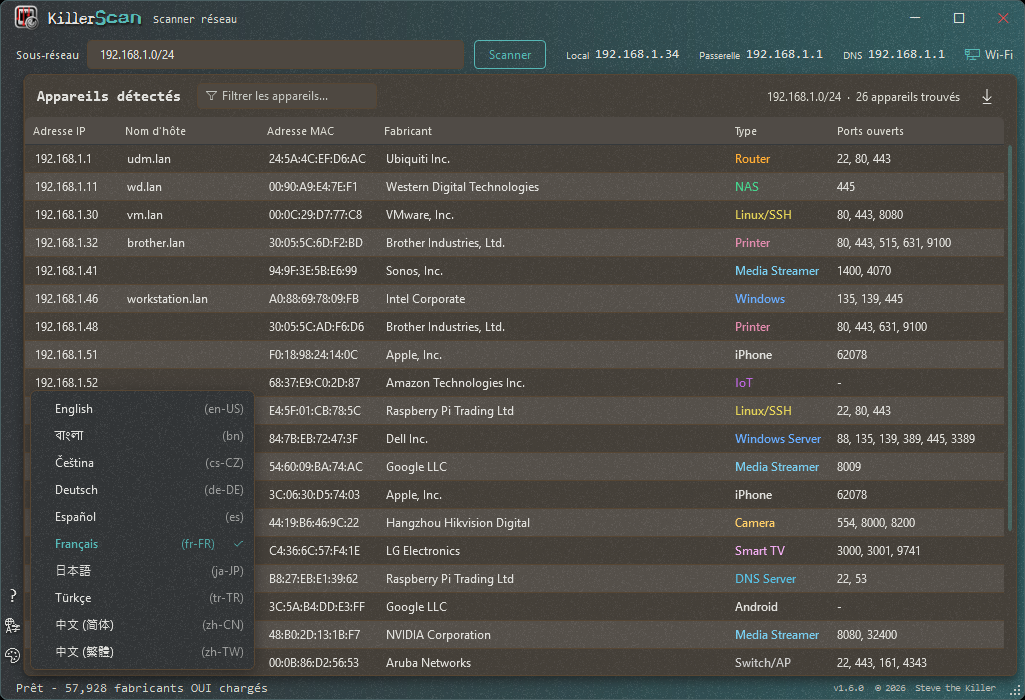
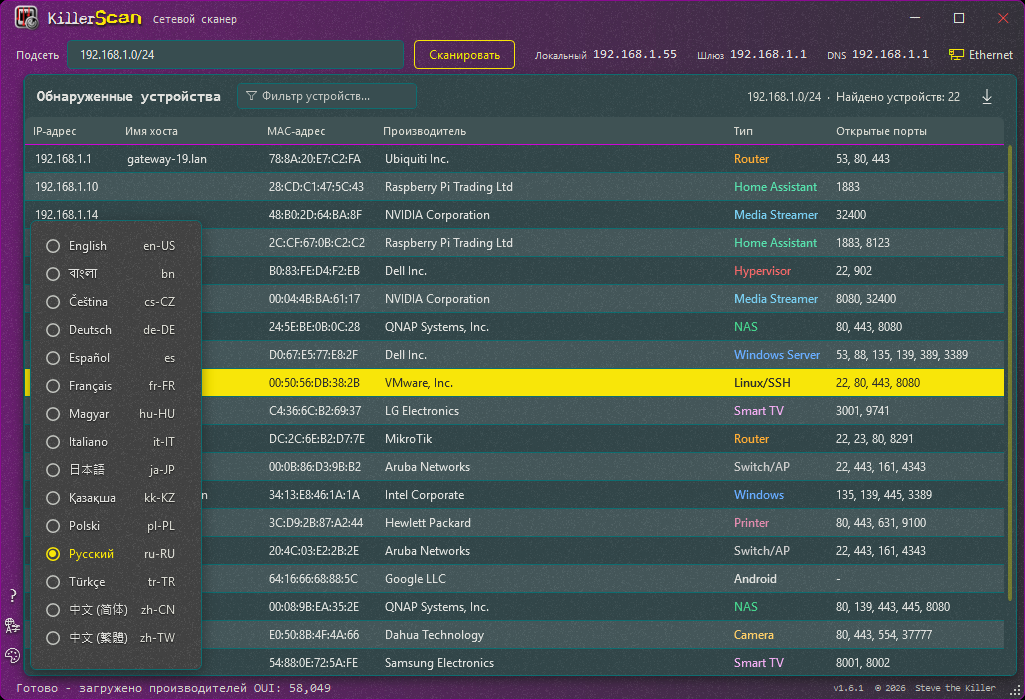
v1.6.1: replace the language-picker screenshot with a Russian one showing all fifteen languages

Changed region(s): [[0.0, 0.0, 1.0, 1.0]]

diff --git a/scan-landing/ks-i18n.js b/scan-landing/ks-i18n.js
@@ -70,7 +70,7 @@ var I18N = {
   "shot_3": "Карточка «О программе» KillerScan поверх результатов сканирования",
   "shot_4": "Выбор темы в теме Траур",
   "shot_5": "Сканирование устройств на традиционном китайском",
-  "shot_6": "Выбор языка на французском",
+  "shot_6": "Сканирование устройств и выбор языка на русском",
   "shot_7": "Выбор темы в теме Кровь",
   "shot_8": "Контекстное меню устройства в теме Гробница",
   "shot_9": "Сканирование устройств и выбор языка на чешском",
@@ -388,7 +388,7 @@ var I18N = {
   "shot_3": "Scheda Informazioni di KillerScan sui risultati della scansione",
   "shot_4": "Selettore dei temi nel tema Lutto",
   "shot_5": "Scansione dei dispositivi in cinese tradizionale",
-  "shot_6": "Selettore della lingua in francese",
+  "shot_6": "Scansione dei dispositivi e selettore della lingua in russo",
   "shot_7": "Selettore dei temi nel tema Sangue",
   "shot_8": "Menu contestuale del dispositivo nel tema Sepolcro",
   "shot_9": "Scansione dei dispositivi e selettore della lingua in ceco",
@@ -813,7 +813,7 @@ var I18N = {
   "shot_3": "A KillerScan névjegykártyája a vizsgálati eredmények felett",
   "shot_4": "Témaválasztó a Gyász témában",
   "shot_5": "Eszközvizsgálat hagyományos kínai nyelven",
-  "shot_6": "Nyelvválasztó francia nyelven",
+  "shot_6": "Eszközvizsgálat és nyelvválasztó orosz nyelven",
   "shot_7": "Témaválasztó a Vér témában",
   "shot_8": "Eszköz helyi menüje a Sír témában",
   "shot_9": "Eszközvizsgálat és nyelvválasztó cseh nyelven",
@@ -1132,7 +1132,7 @@ var I18N = {
   "shot_3": "Karta O programie KillerScan na tle wyników skanowania",
   "shot_4": "Wybór motywu w motywie Żałoba",
   "shot_5": "Skanowanie urządzeń w chińskim tradycyjnym",
-  "shot_6": "Wybór języka po francusku",
+  "shot_6": "Skanowanie urządzeń i wybór języka po rosyjsku",
   "shot_7": "Wybór motywu w motywie Krew",
   "shot_8": "Menu kontekstowe urządzenia w motywie Grobowiec",
   "shot_9": "Skanowanie urządzeń i wybór języka po czesku",
@@ -1450,7 +1450,7 @@ var I18N = {
   "shot_3": "Karta O aplikaci KillerScan nad výsledky skenování",
   "shot_4": "Výběr motivu v motivu Smutek",
   "shot_5": "Skenování zařízení v tradiční čínštině",
-  "shot_6": "Výběr jazyka ve francouzštině",
+  "shot_6": "Skenování zařízení a výběr jazyka v ruštině",
   "shot_7": "Výběr motivu v motivu Krvavý",
   "shot_8": "Místní nabídka zařízení v motivu Hrobka",
   "shot_9": "Skenování zařízení a výběr jazyka v češtině",
@@ -1768,7 +1768,7 @@ var I18N = {
   "shot_3": "Tarjeta Acerca de KillerScan sobre los resultados del escaneo",
   "shot_4": "Selector de temas en el tema Luto",
   "shot_5": "Escaneo de dispositivos en chino tradicional",
-  "shot_6": "Selector de idioma en francés",
+  "shot_6": "Escaneo de dispositivos y selector de idioma en ruso",
   "shot_7": "Selector de temas en el tema Sangre",
   "shot_8": "Menú contextual del dispositivo en el tema Sepulcro",
   "shot_9": "Escaneo de dispositivos y selector de idioma en checo",
@@ -2086,7 +2086,7 @@ var I18N = {
   "shot_3": "KillerScan-Infokarte über den Scanergebnissen",
   "shot_4": "Theme-Auswahl im Theme Trauer",
   "shot_5": "Gerätescan auf traditionellem Chinesisch",
-  "shot_6": "Sprachauswahl auf Französisch",
+  "shot_6": "Gerätescan und Sprachauswahl auf Russisch",
   "shot_7": "Theme-Auswahl im Theme Blut",
   "shot_8": "Gerätekontextmenü im Theme Grabmal",
   "shot_9": "Gerätescan und Sprachauswahl auf Tschechisch",
@@ -2404,7 +2404,7 @@ var I18N = {
   "shot_3": "Carte À propos de KillerScan par-dessus les résultats du scan",
   "shot_4": "Sélecteur de thème dans le thème Deuil",
   "shot_5": "Scan des appareils en chinois traditionnel",
-  "shot_6": "Sélecteur de langue en français",
+  "shot_6": "Scan des appareils et sélecteur de langue en russe",
   "shot_7": "Sélecteur de thème dans le thème Sang",
   "shot_8": "Menu contextuel de l'appareil dans le thème Sépulcre",
   "shot_9": "Scan des appareils et sélecteur de langue en tchèque",
@@ -2722,7 +2722,7 @@ var I18N = {
   "shot_3": "Tarama sonuçlarının üzerinde KillerScan Hakkında kartı",
   "shot_4": "Yas temasında tema seçici",
   "shot_5": "Geleneksel Çince olarak cihaz taraması",
-  "shot_6": "Fransızca olarak dil seçici",
+  "shot_6": "Rusça olarak cihaz taraması ve dil seçici",
   "shot_7": "Kan temasında tema seçici",
   "shot_8": "Kabir temasında cihaz bağlam menüsü",
   "shot_9": "Çekçe olarak cihaz taraması ve dil seçici",
@@ -3040,7 +3040,7 @@ var I18N = {
   "shot_3": "掃描結果上方的 KillerScan 關於卡片",
   "shot_4": "哀悼主題中的主題選擇器",
   "shot_5": "以繁體中文顯示的裝置掃描",
-  "shot_6": "以法文顯示的語言選擇器",
+  "shot_6": "以俄文顯示的裝置掃描與語言選擇器",
   "shot_7": "血紅主題中的主題選擇器",
   "shot_8": "陵墓主題中的裝置右鍵選單",
   "shot_9": "以捷克文顯示的裝置掃描與語言選擇器",
@@ -3358,7 +3358,7 @@ var I18N = {
   "shot_3": "扫描结果上方的 KillerScan 关于卡片",
   "shot_4": "哀悼主题中的主题选择器",
   "shot_5": "以繁体中文显示的设备扫描",
-  "shot_6": "以法语显示的语言选择器",
+  "shot_6": "以俄语显示的设备扫描与语言选择器",
   "shot_7": "血色主题中的主题选择器",
   "shot_8": "陵墓主题中的设备右键菜单",
   "shot_9": "以捷克语显示的设备扫描与语言选择器",
@@ -3676,7 +3676,7 @@ var I18N = {
   "shot_3": "স্ক্যানের ফলাফলের উপরে KillerScan-এর সম্পর্কে কার্ড",
   "shot_4": "শোক থিমে থিম নির্বাচক",
   "shot_5": "প্রথাগত চীনা ভাষায় ডিভাইস স্ক্যান",
-  "shot_6": "ফরাসি ভাষায় ভাষা নির্বাচক",
+  "shot_6": "রুশ ভাষায় ডিভাইস স্ক্যান ও ভাষা নির্বাচক",
   "shot_7": "রক্ত থিমে থিম নির্বাচক",
   "shot_8": "সমাধি থিমে ডিভাইসের কনটেক্সট মেনু",
   "shot_9": "চেক ভাষায় ডিভাইস স্ক্যান ও ভাষা নির্বাচক",
@@ -3994,7 +3994,7 @@ var I18N = {
   "shot_3": "スキャン結果の上に表示された KillerScan の概要カード",
   "shot_4": "モーニング テーマのテーマ選択",
   "shot_5": "繁体字中国語で表示したデバイススキャン",
-  "shot_6": "フランス語で表示した言語選択",
+  "shot_6": "ロシア語で表示したデバイススキャンと言語選択",
   "shot_7": "ブラッド テーマのテーマ選択",
   "shot_8": "セパルカー テーマのデバイスのコンテキストメニュー",
   "shot_9": "チェコ語で表示したデバイススキャンと言語選択",
@@ -4205,7 +4205,7 @@ var I18N = {
   "shot_3": "Сканерлеу нәтижелерінің үстіндегі KillerScan бағдарлама туралы картасы",
   "shot_4": "Жоқтау тақырыбындағы тақырып таңдағыш",
   "shot_5": "Дәстүрлі қытай тілінде құрылғыларды сканерлеу",
-  "shot_6": "Француз тілінде тіл таңдағыш",
+  "shot_6": "Орыс тілінде құрылғыларды сканерлеу және тіл таңдағыш",
   "shot_7": "Қан тақырыбындағы тақырып таңдағыш",
   "shot_8": "Қабірхана тақырыбындағы құрылғының контекстік мәзірі",
   "shot_9": "Чех тілінде құрылғыларды сканерлеу және тіл таңдағыш",

diff --git a/scan-landing/index.html b/scan-landing/index.html
@@ -260,7 +260,7 @@ html[data-theme="light"] .blurb h3, html[data-theme="light"] .feature-card h3 { 
     'KillerScan About card over scanned results',
     'Theme picker in the Mourning theme',
     'Device scan localized in Traditional Chinese',
-    'Language picker localized in French',
+    'Device scan and language picker localized in Russian',
     'Theme picker in the Blood theme',
     'Device context menu in the Sepulchre theme',
     'Device scan and language picker localized in Czech',
